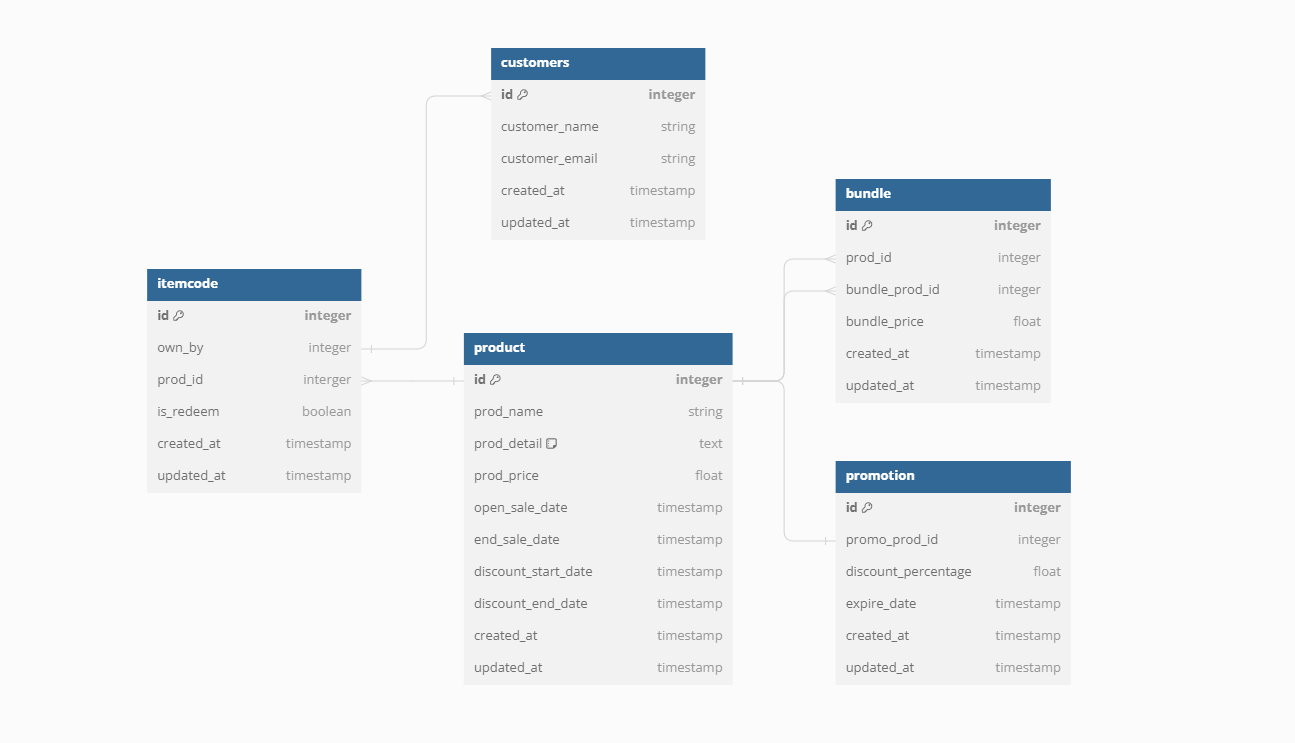
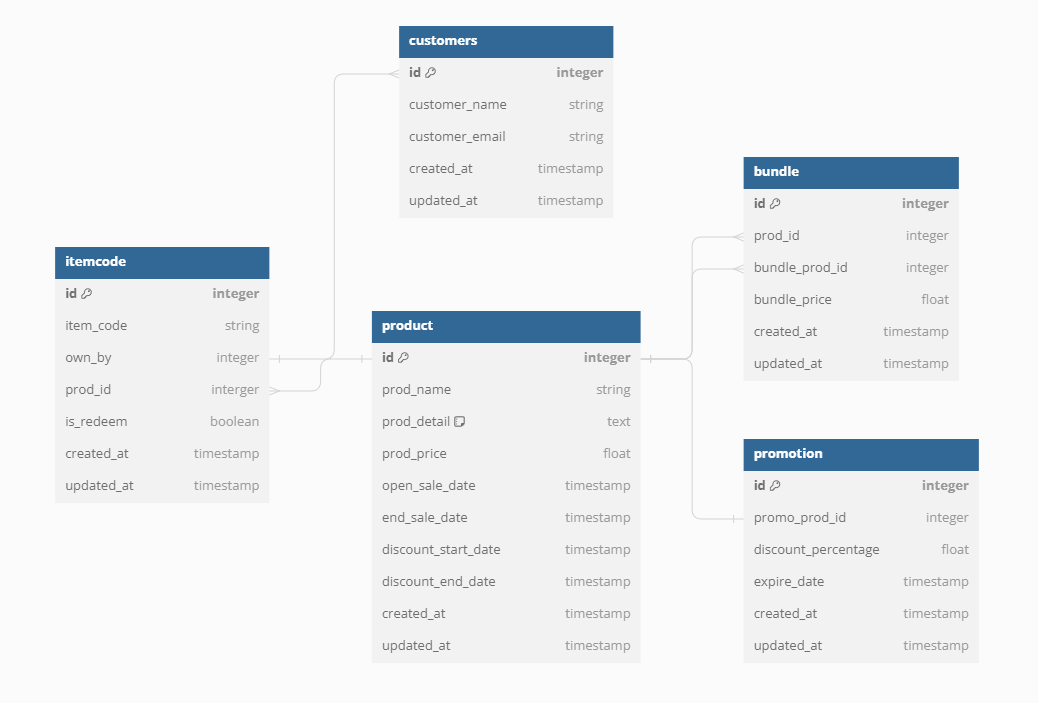
update itemcode

diff --git a/migrations/20231111080130-create-item_codes.js b/migrations/20231111080130-create-item_codes.js
@@ -1,42 +1,46 @@
 const DataTypes = require('sequelize').DataTypes
 
 module.exports = {
-  up: async (queryInterface, Sequelize) => {
-    await queryInterface.createTable('item_codes', {
-      id: {
-        type: DataTypes.INTEGER.UNSIGNED,
-        field: 'id',
-        primaryKey: true,
-        autoIncrement: true,
-        allowNull: false
-      },
-      ownBy: {
-        type: DataTypes.INTEGER,
-        field: 'own_by'
-      },
-      prodId: {
-        type: DataTypes.INTEGER,
-        field: 'prod_id'
-      },
-      isRedeem: {
-        type: DataTypes.BOOLEAN,
-        field: 'is_redeem'
-      },
-      createdAt: {
-        type: DataTypes.DATE,
-        field: 'created_at'
-      },
-      updatedAt: {
-        type: DataTypes.DATE,
-        field: 'updated_at'
-      },
-      customerId: {
-        type: DataTypes.INTEGER.UNSIGNED,
-        field: 'customer_id'
-      }
-    })
-  },
-  down: async (queryInterface, Sequelize) => {
-    await queryInterface.dropTable('item_codes');
-  },
+    up: async(queryInterface, Sequelize) => {
+        await queryInterface.createTable('item_codes', {
+            id: {
+                type: DataTypes.INTEGER.UNSIGNED,
+                field: 'id',
+                primaryKey: true,
+                autoIncrement: true,
+                allowNull: false
+            },
+            itemCode: {
+                type: DataTypes.STRING,
+                field: 'item_code',
+            },
+            ownBy: {
+                type: DataTypes.INTEGER,
+                field: 'own_by'
+            },
+            prodId: {
+                type: DataTypes.INTEGER,
+                field: 'prod_id'
+            },
+            isRedeem: {
+                type: DataTypes.BOOLEAN,
+                field: 'is_redeem'
+            },
+            createdAt: {
+                type: DataTypes.DATE,
+                field: 'created_at'
+            },
+            updatedAt: {
+                type: DataTypes.DATE,
+                field: 'updated_at'
+            },
+            customerId: {
+                type: DataTypes.INTEGER.UNSIGNED,
+                field: 'customer_id'
+            }
+        })
+    },
+    down: async(queryInterface, Sequelize) => {
+        await queryInterface.dropTable('item_codes');
+    },
 };

diff --git a/models/ItemCode.ts b/models/ItemCode.ts
@@ -21,6 +21,7 @@ export class ItemCode extends Model<
   InferCreationAttributes<ItemCode, {omit: ItemCodeAssociations}>
 > {
   declare id: CreationOptional<number>
+  declare itemCode: String | null
   declare ownBy: number | null
   declare prodId: number | null
   declare isRedeem: boolean | null
@@ -51,6 +52,9 @@ export class ItemCode extends Model<
         primaryKey: true,
         autoIncrement: true,
         allowNull: false
+      },
+      itemCode: {
+        type: DataTypes.STRING
       },
       ownBy: {
         type: DataTypes.INTEGER
